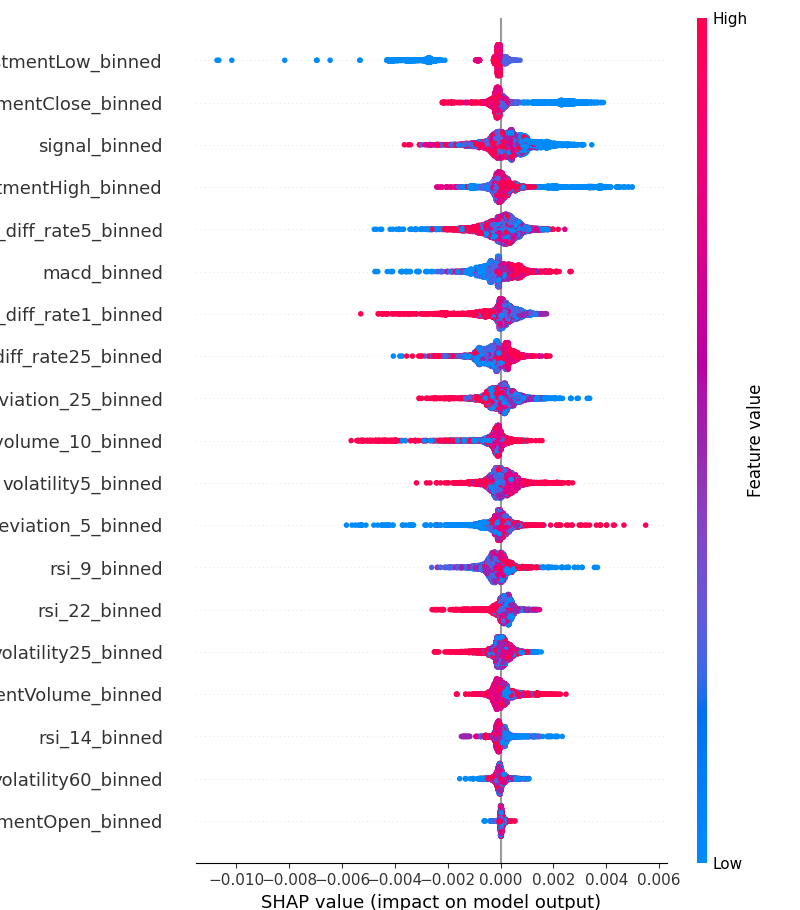
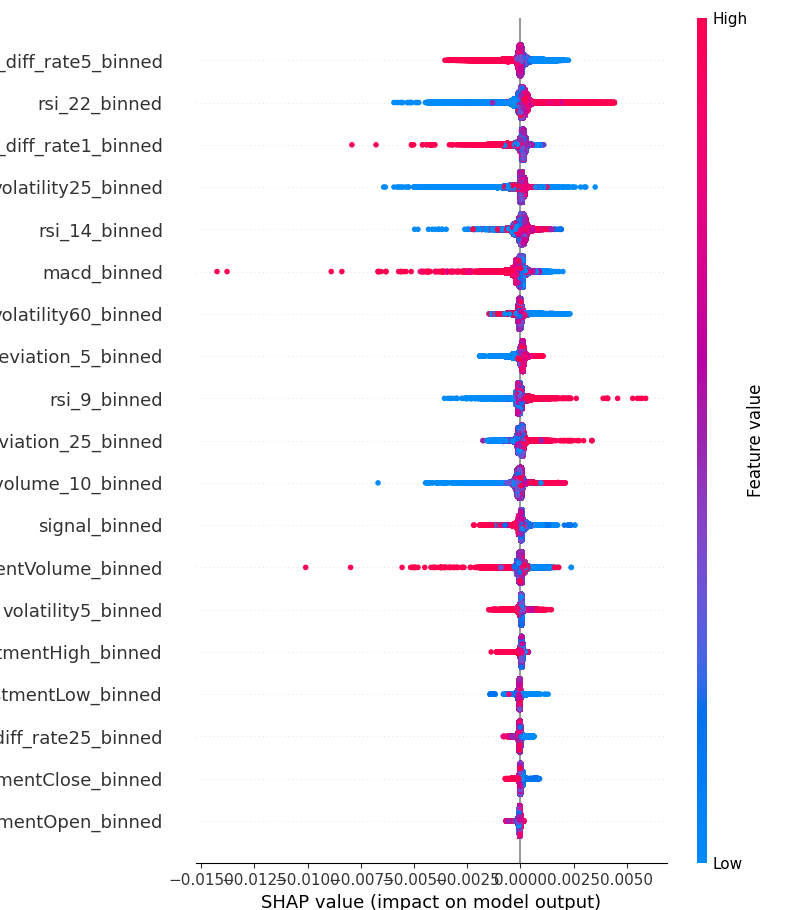
add neural forecast

diff --git a/forecast.py b/forecast.py
@@ -3,24 +3,38 @@ import joblib
 import pandas as pd
 import numpy as np
 
+import time
+
 import matplotlib.pyplot as plt
 
 from sklearn.model_selection import train_test_split
 from sklearn.preprocessing import KBinsDiscretizer
+import tensorflow as tf
+from tensorflow import keras
+from tensorflow.keras import layers
 import lightgbm as lgb
 import shap
 
 
 # 各種設定
+# DATA_USE_RATEは最大1で181万データ
 SEED = 1234
-DO_SHAP = True
 MODEL = "GBM"
+DATA_USE_RATE = 1
+
+# 実行時間計測
+start = time.time()
 
 # 読み込み
-prices_normal = joblib.load('etc/prices_normal_sample.job')
+print("now loading datas...", flush=True, end="")
+prices_normal = joblib.load('etc/prices_normal.job')
+print("finished!")
+
+# データを分割して捨てる
+prices_normal, not_use = train_test_split(prices_normal, train_size=DATA_USE_RATE-1e-5, random_state=SEED)
 
 # 学習・評価データの分割(ランダムに銘柄で分割)
-train, test = train_test_split(prices_normal, test_size=0.25, random_state=SEED)
+train, test = train_test_split(prices_normal, test_size=0.2, random_state=SEED)
 
 # 銘柄でまとめてある配列を一次元化リスト化
 flat_train = [x for row in train for x in row]
@@ -63,7 +77,7 @@ y_test = df_test[target]
 
 # 金融時系列データは過分散のため，ビニングしてロバストにする
 # KBinsDiscretizerを5分位等分布の設定で初期化，学習データでfit
-discretizer = KBinsDiscretizer(n_bins=5, encode='ordinal', strategy='quantile')
+discretizer = KBinsDiscretizer(n_bins=3, encode='ordinal', strategy='quantile')
 discretizer.fit(X_train)
 
 # 学習・評価データの特徴量を変換する
@@ -79,11 +93,29 @@ X_test = pd.DataFrame(X_test_binned, index=X_test.index, columns=[f"{feat}_binne
 if MODEL == "GBM":
     # LightGBM(決定木)
     model = lgb.LGBMRegressor(random_state=SEED, verbose=-1, max_depth=4)
+    
+    # 学習
     model.fit(X_train, y_train)
     
 elif MODEL == "NEURAL":
-    # ニューラルネットワーク
-    pass
+    
+    # パラメータ
+    LAYERS = 1
+    NODES = len(features)
+    BATCH_SIZE = 64
+    EPOCHS = 100
+    
+    # 深層ニューラルネットワーク
+    model = keras.Sequential()
+    for i in range(LAYERS):
+        model.add(layers.Dense(NODES, activation='relu', input_shape=(len(features),)))
+    model.add(layers.Dense(1))
+    
+    # モデルのコンパイル
+    model.compile(optimizer='adam', loss='mean_squared_error')
+
+    # モデルの学習
+    model.fit(X_train, y_train, epochs=EPOCHS, batch_size=BATCH_SIZE, validation_split=0.2, verbose=0)
 
 # 訓練データでの予測値
 df_train['y_pred'] = model.predict(X_train)
@@ -98,11 +130,13 @@ def score(df, target='ret1', pred='y_pred'):
 
 def run_analytics(scores, figname):
     # 各統計値を計算
+    '''
     print(f"Mean Correlation: {scores.mean():.4f}")
     print(f"Median Correlation: {scores.median():.4f}")
     print(f"Standard Deviation: {scores.std():.4f}")
     print(f"Mean Pseudo-Sharpe: {scores.mean()/scores.std():.4f}")
     print(f"Median Pseudo-Sharpe: {scores.median()/scores.std():.4f}")
+    '''
     print(f'Hit Rate (% positive eras): {scores.apply(lambda x: np.sign(x)).value_counts()[1]/len(scores):.2%}\n')
 
     # rooling/era 相関係数をグラフ化
@@ -122,8 +156,12 @@ run_analytics(test_scores, "test.png")
 
 
 # SHAPによる特徴量の重要度のグラフ化
-if DO_SHAP:
+if MODEL in ["GBM",]:
     explainer = shap.Explainer(model)
     shap_values = explainer(X_test)
     shap.summary_plot(shap_values, X_test, show=False)
     plt.savefig("datas/graphs/features_shap.png")
+    
+# 実行時間
+end = time.time()
+print(end-start)
